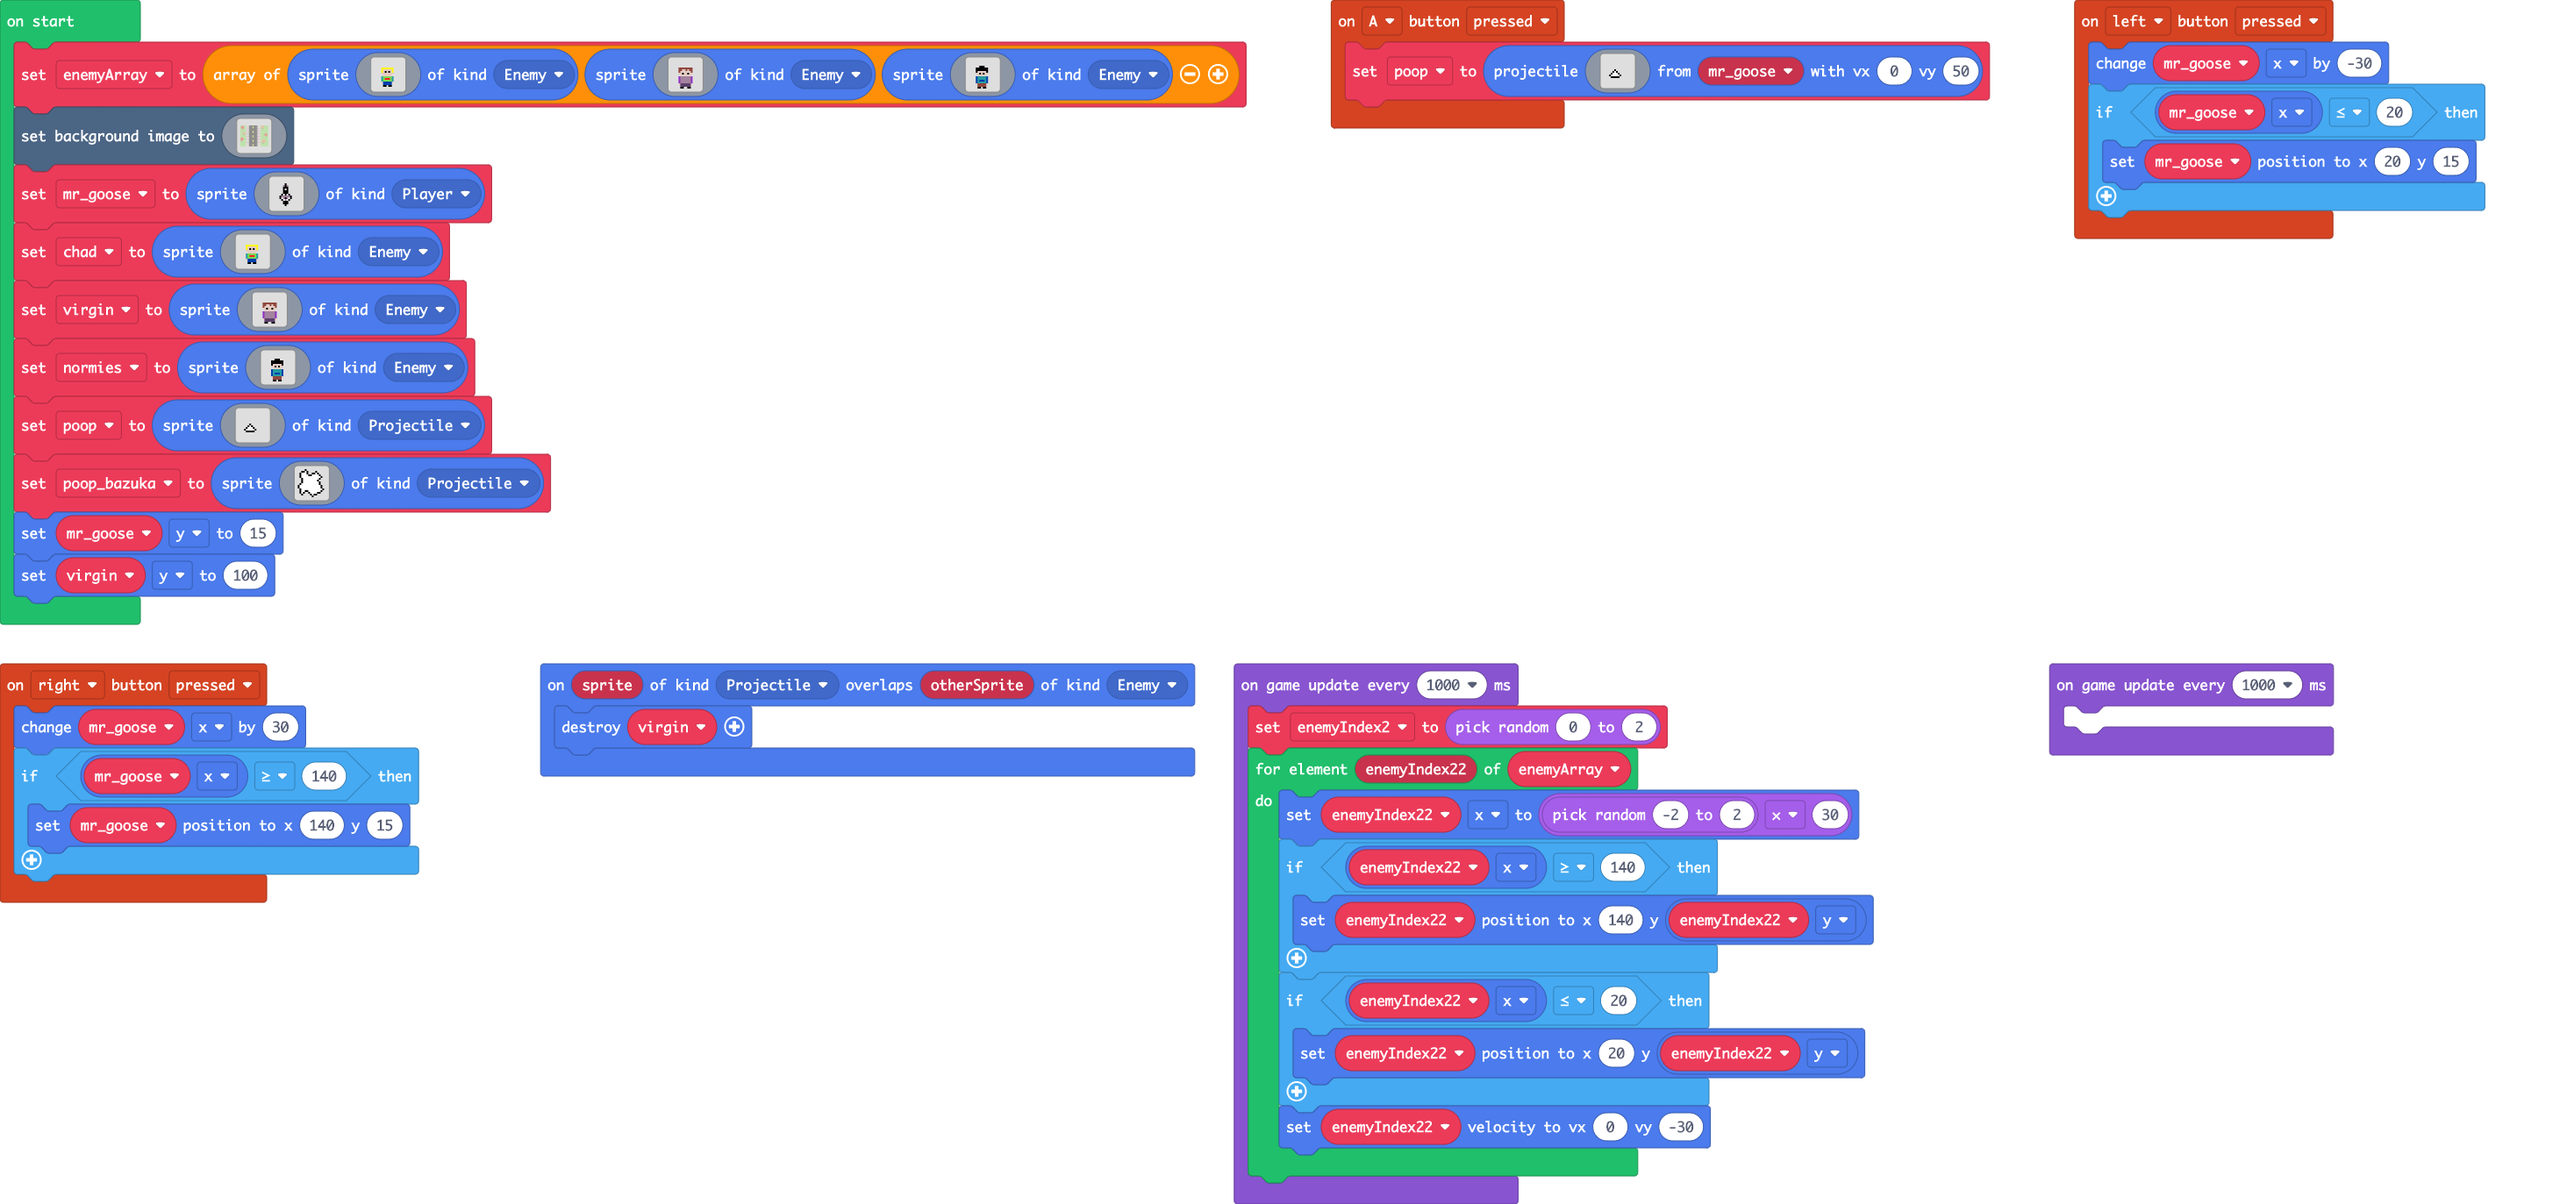
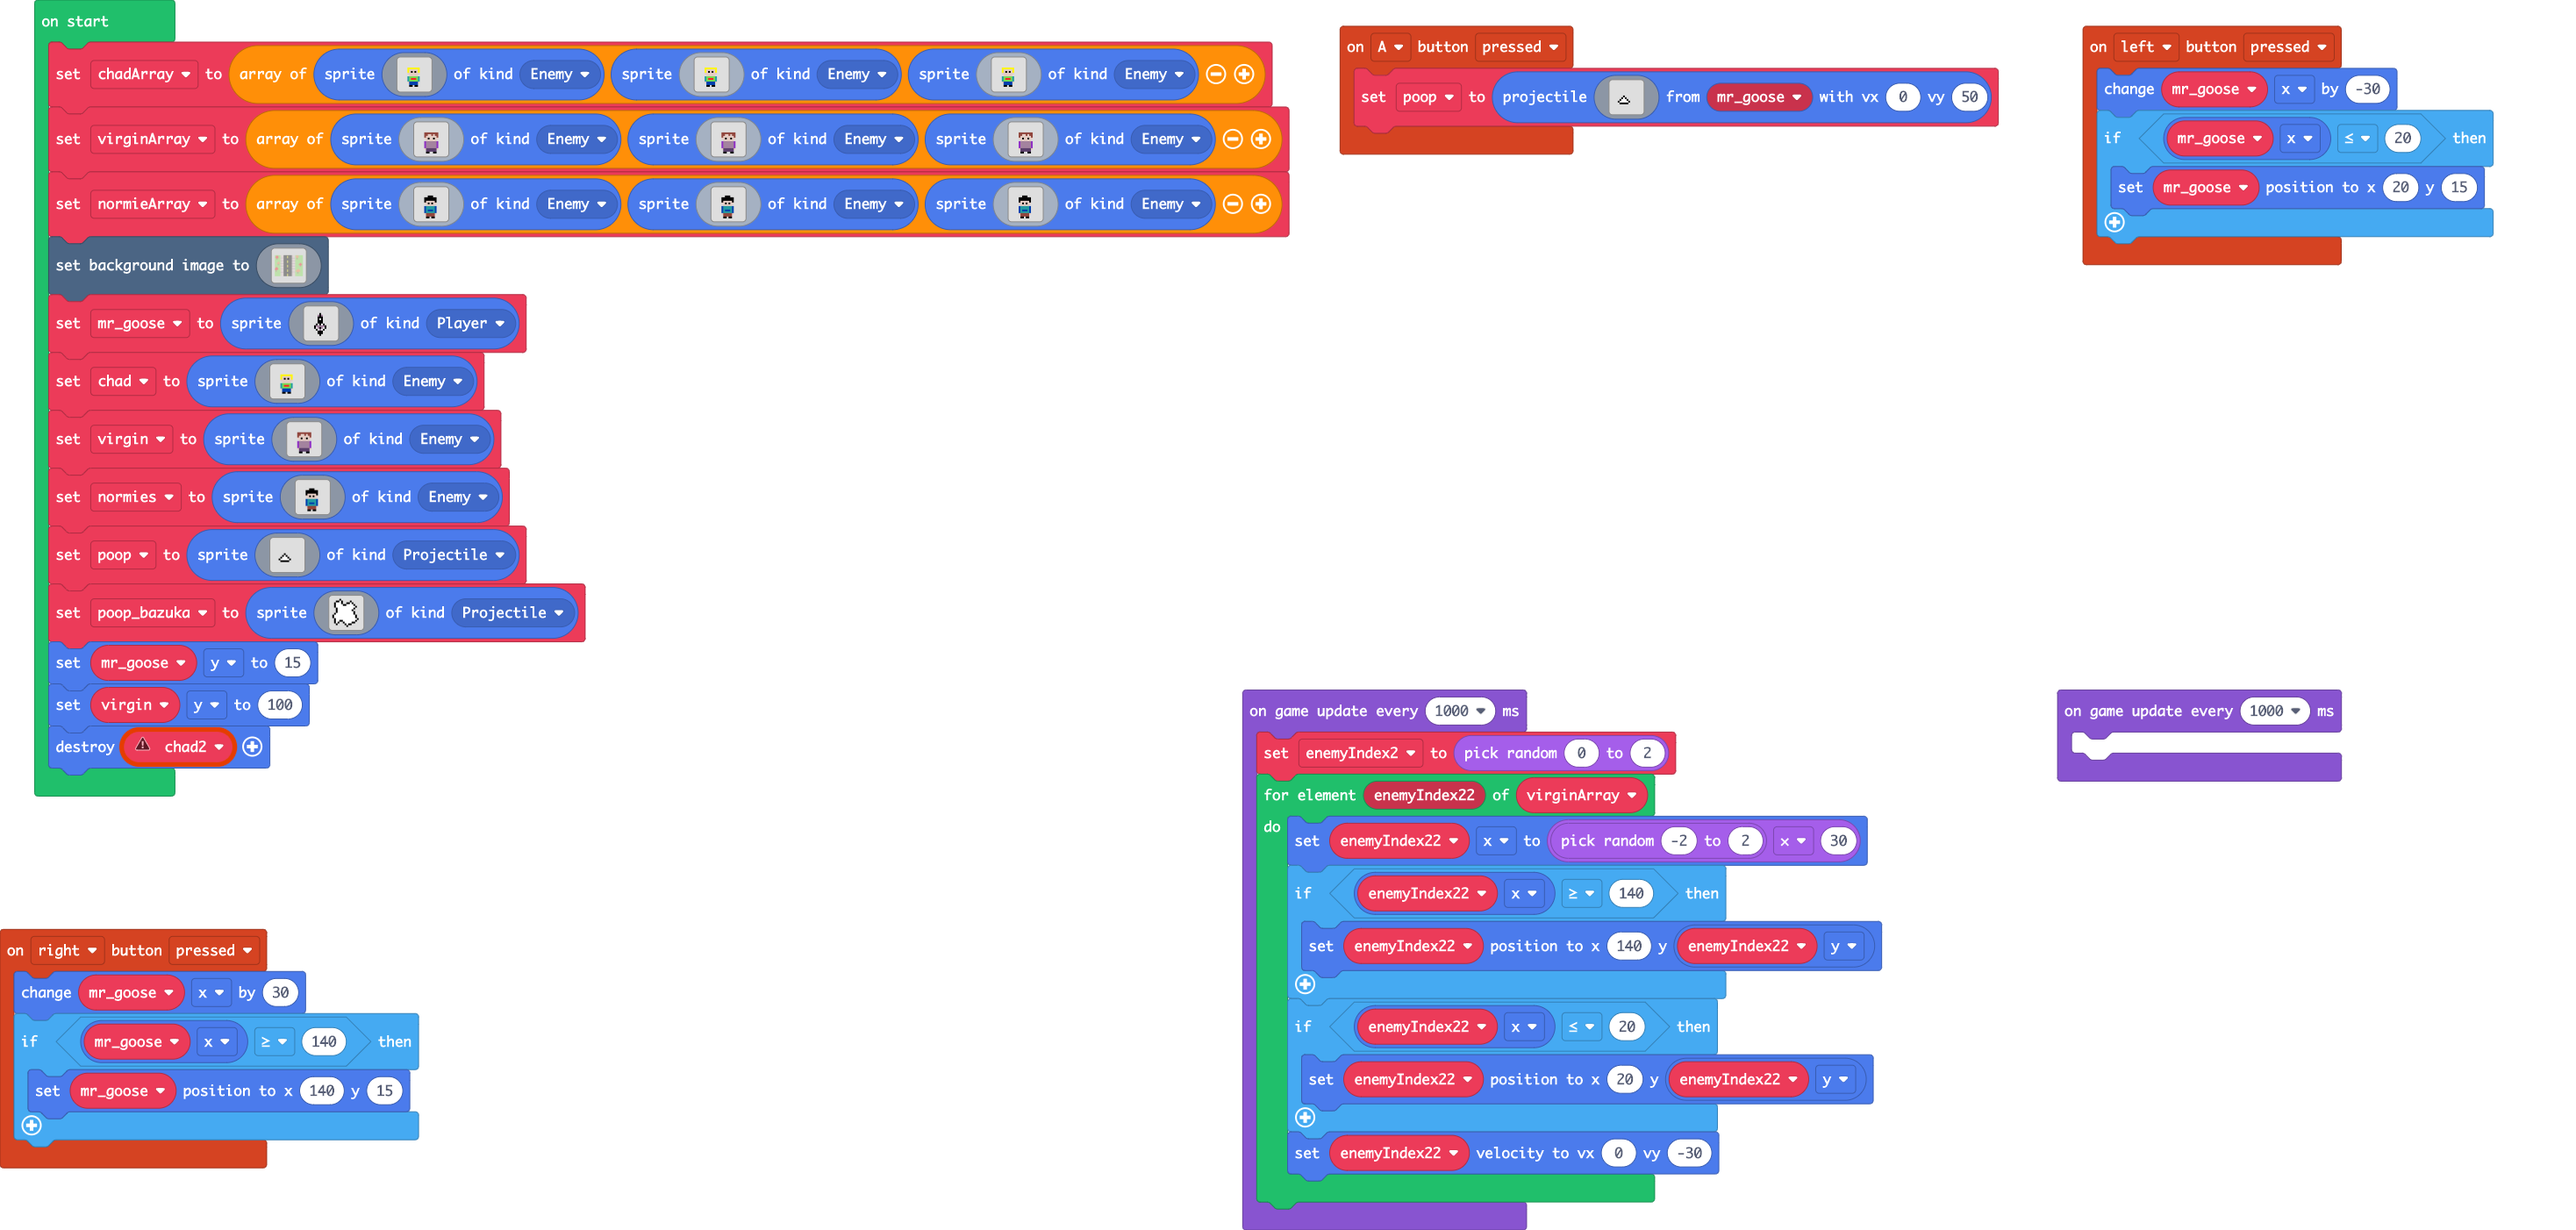
Enemy Arrays

Changed region(s): [[0.0, 0.0, 0.7775, 0.9789], [0.8086, 0.0, 0.9952, 0.2141], [0.7775, 0.5506, 0.933, 0.6424]]

diff --git a/main.ts b/main.ts
@@ -30,14 +30,11 @@ controller.right.onEvent(ControllerButtonEvent.Pressed, function () {
         mr_goose.setPosition(140, 15)
     }
 })
-sprites.onOverlap(SpriteKind.Projectile, SpriteKind.Enemy, function (sprite, otherSprite) {
-    virgin.destroy()
-})
 let enemyIndex2 = 0
+let chad2: Sprite = null
 let poop: Sprite = null
-let virgin: Sprite = null
 let mr_goose: Sprite = null
-let enemyArray = [sprites.create(img`
+let chadArray = [sprites.create(img`
     . . . . . . . . . . . . . . . . 
     . . . . . . . . . . . . . . . . 
     . . . . . . . . . . . . . . . . 
@@ -59,6 +56,41 @@ let enemyArray = [sprites.create(img`
     . . . . . . . . . . . . . . . . 
     . . . . . . . . . . . . . . . . 
     . . . . . . . . . . . . . . . . 
+    . . . . 5 5 5 5 5 5 5 . . . . . 
+    . . . . 5 d d d d d 5 . . . . . 
+    . . . . 5 d f d f d 5 . . . . . 
+    . . . . d d d d d d d . . . . . 
+    . . . . . d d d d d . . . . . . 
+    . . . . 6 7 7 7 7 7 6 . . . . . 
+    . . . . 6 7 2 2 2 7 6 . . . . . 
+    . . . . 6 7 7 7 7 7 6 . . . . . 
+    . . . . d 8 8 8 8 8 d . . . . . 
+    . . . . . 8 8 8 8 8 . . . . . . 
+    . . . . . f f . f f . . . . . . 
+    . . . . . . . . . . . . . . . . 
+    `, SpriteKind.Enemy), sprites.create(img`
+    . . . . . . . . . . . . . . . . 
+    . . . . . . . . . . . . . . . . 
+    . . . . . . . . . . . . . . . . 
+    . . . . . . . . . . . . . . . . 
+    . . . . 5 5 5 5 5 5 5 . . . . . 
+    . . . . 5 d d d d d 5 . . . . . 
+    . . . . 5 d f d f d 5 . . . . . 
+    . . . . d d d d d d d . . . . . 
+    . . . . . d d d d d . . . . . . 
+    . . . . 6 7 7 7 7 7 6 . . . . . 
+    . . . . 6 7 2 2 2 7 6 . . . . . 
+    . . . . 6 7 7 7 7 7 6 . . . . . 
+    . . . . d 8 8 8 8 8 d . . . . . 
+    . . . . . 8 8 8 8 8 . . . . . . 
+    . . . . . f f . f f . . . . . . 
+    . . . . . . . . . . . . . . . . 
+    `, SpriteKind.Enemy)]
+let virginArray = [sprites.create(img`
+    . . . . . . . . . . . . . . . . 
+    . . . . . . . . . . . . . . . . 
+    . . . . . . . . . . . . . . . . 
+    . . . . . . . . . . . . . . . . 
     . . . . e e e e e e e e . . . . 
     . . . . e e d d e d e e . . . . 
     . . . . e d d d d d d e . . . . 
@@ -71,6 +103,75 @@ let enemyArray = [sprites.create(img`
     . . . . d c c c c c c d . . . . 
     . . . . . c c c c c c . . . . . 
     . . . . . f f . . f f . . . . . 
+    `, SpriteKind.Enemy), sprites.create(img`
+    . . . . . . . . . . . . . . . . 
+    . . . . . . . . . . . . . . . . 
+    . . . . . . . . . . . . . . . . 
+    . . . . . . . . . . . . . . . . 
+    . . . . e e e e e e e e . . . . 
+    . . . . e e d d e d e e . . . . 
+    . . . . e d d d d d d e . . . . 
+    . . . . d d f d d f d d . . . . 
+    . . . . . d d d d d d . . . . . 
+    . . . . a b b b b b b a . . . . 
+    . . . . a b b b b b b a . . . . 
+    . . . . a b b b b b b a . . . . 
+    . . . . a b b b b b b a . . . . 
+    . . . . d c c c c c c d . . . . 
+    . . . . . c c c c c c . . . . . 
+    . . . . . f f . . f f . . . . . 
+    `, SpriteKind.Enemy), sprites.create(img`
+    . . . . . . . . . . . . . . . . 
+    . . . . . . . . . . . . . . . . 
+    . . . . . . . . . . . . . . . . 
+    . . . . . . . . . . . . . . . . 
+    . . . . e e e e e e e e . . . . 
+    . . . . e e d d e d e e . . . . 
+    . . . . e d d d d d d e . . . . 
+    . . . . d d f d d f d d . . . . 
+    . . . . . d d d d d d . . . . . 
+    . . . . a b b b b b b a . . . . 
+    . . . . a b b b b b b a . . . . 
+    . . . . a b b b b b b a . . . . 
+    . . . . a b b b b b b a . . . . 
+    . . . . d c c c c c c d . . . . 
+    . . . . . c c c c c c . . . . . 
+    . . . . . f f . . f f . . . . . 
+    `, SpriteKind.Enemy)]
+let normieArray = [sprites.create(img`
+    . . . . . . . . . . . . . . . . 
+    . . . . . . . . . . . . . . . . 
+    . . . . . . . . . . . . . . . . 
+    . . . . . . f f f . . . . . . . 
+    . . . . f f f f f f f . . . . . 
+    . . . . f f f f f f f . . . . . 
+    . . . . f d d d d d f . . . . . 
+    . . . . d d f d f d d . . . . . 
+    . . . . . d d d d d . . . . . . 
+    . . . . 8 6 6 6 6 6 8 . . . . . 
+    . . . . 8 6 6 6 6 6 8 . . . . . 
+    . . . . 8 6 8 8 8 6 8 . . . . . 
+    . . . . 8 6 6 6 6 6 8 . . . . . 
+    . . . . d e e e e e d . . . . . 
+    . . . . . e e e e e . . . . . . 
+    . . . . . f f . f f . . . . . . 
+    `, SpriteKind.Enemy), sprites.create(img`
+    . . . . . . . . . . . . . . . . 
+    . . . . . . . . . . . . . . . . 
+    . . . . . . . . . . . . . . . . 
+    . . . . . . f f f . . . . . . . 
+    . . . . f f f f f f f . . . . . 
+    . . . . f f f f f f f . . . . . 
+    . . . . f d d d d d f . . . . . 
+    . . . . d d f d f d d . . . . . 
+    . . . . . d d d d d . . . . . . 
+    . . . . 8 6 6 6 6 6 8 . . . . . 
+    . . . . 8 6 6 6 6 6 8 . . . . . 
+    . . . . 8 6 8 8 8 6 8 . . . . . 
+    . . . . 8 6 6 6 6 6 8 . . . . . 
+    . . . . d e e e e e d . . . . . 
+    . . . . . e e e e e . . . . . . 
+    . . . . . f f . f f . . . . . . 
     `, SpriteKind.Enemy), sprites.create(img`
     . . . . . . . . . . . . . . . . 
     . . . . . . . . . . . . . . . . 
@@ -247,7 +348,7 @@ let chad = sprites.create(img`
     . . . . . f f . f f . . . . . . 
     . . . . . . . . . . . . . . . . 
     `, SpriteKind.Enemy)
-virgin = sprites.create(img`
+let virgin = sprites.create(img`
     . . . . . . . . . . . . . . . . 
     . . . . . . . . . . . . . . . . 
     . . . . . . . . . . . . . . . . 
@@ -321,9 +422,10 @@ let poop_bazuka = sprites.create(img`
     `, SpriteKind.Projectile)
 mr_goose.y = 15
 virgin.y = 100
+chad2.destroy()
 game.onUpdateInterval(1000, function () {
     enemyIndex2 = randint(0, 2)
-    for (let enemyIndex22 of enemyArray) {
+    for (let enemyIndex22 of virginArray) {
         enemyIndex22.x = randint(-2, 2) * 30
         if (enemyIndex22.x >= 140) {
             enemyIndex22.setPosition(140, enemyIndex22.y)
